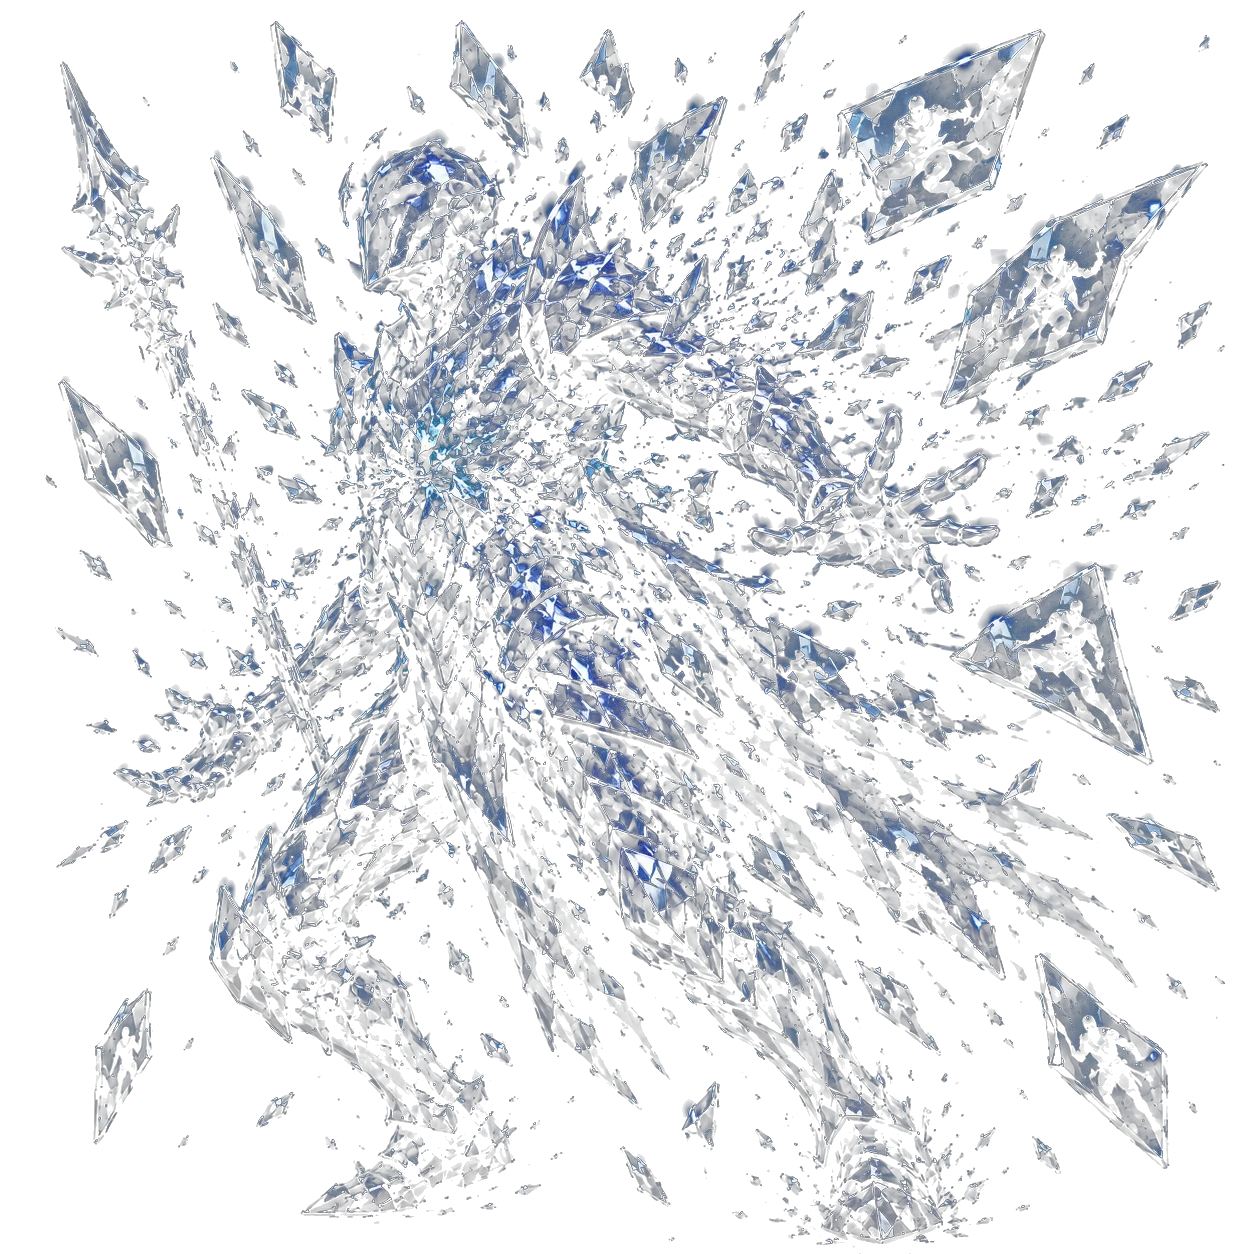
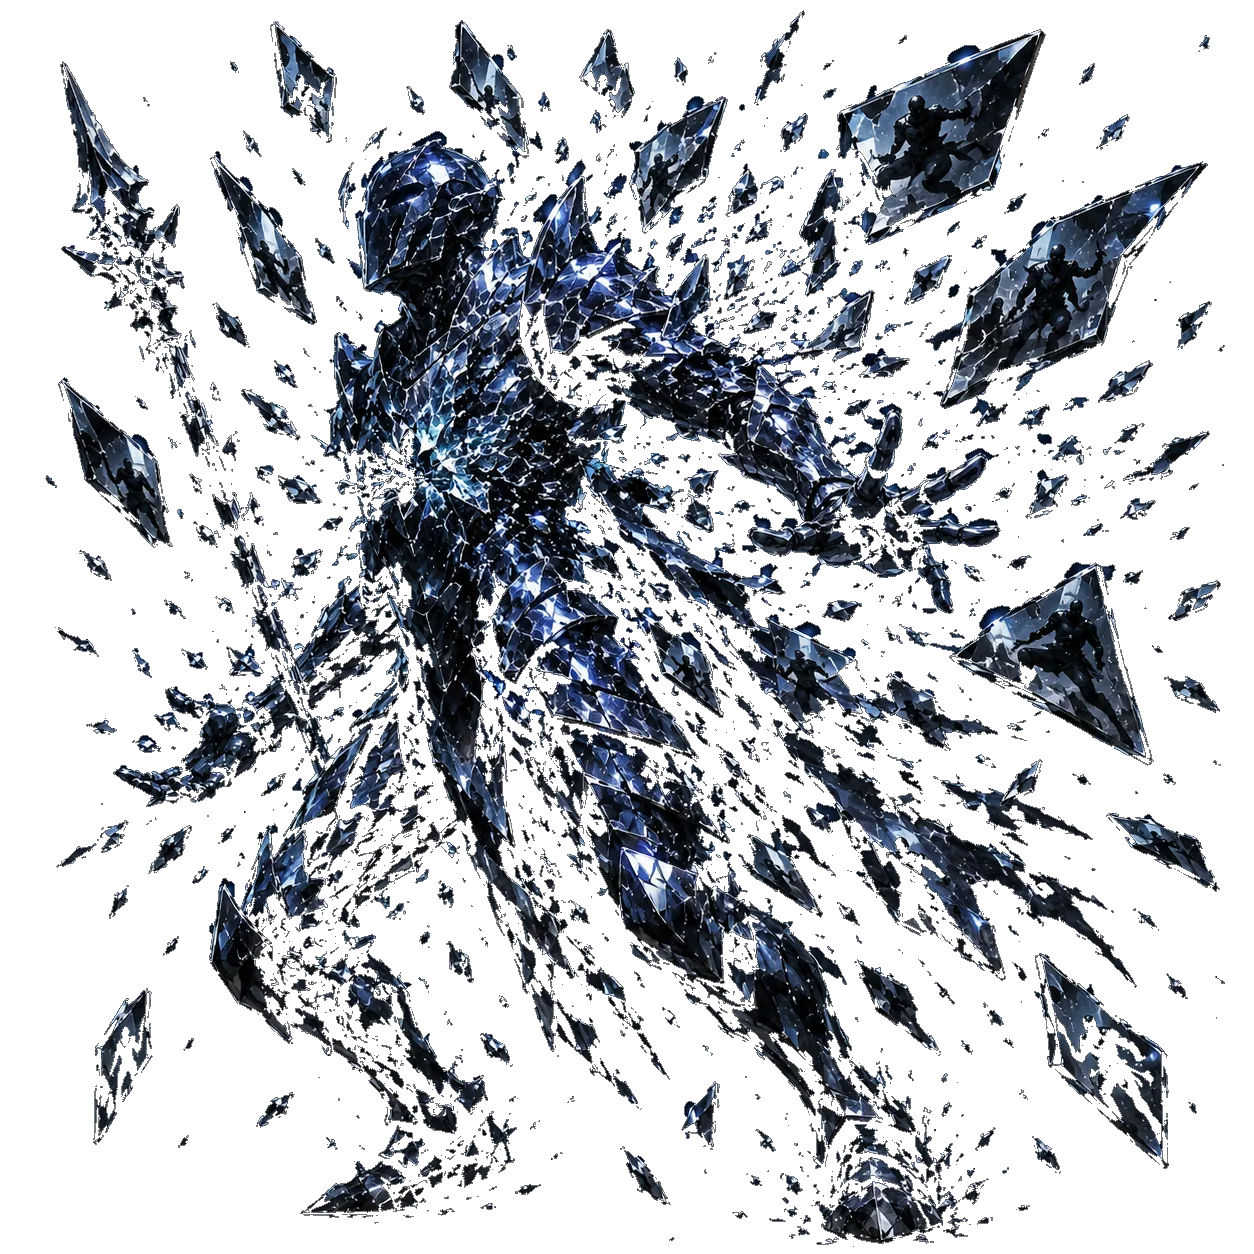
Playtest-fixes ronde 1: gif-balans, Erfprins-feedback, geaarde figuren, spiegelwachter
Na Thomas' playtest (gif-mage versloeg Erfprins triviaal, baas leek passief, figuren zweven):
- **D — gif-balans:** de Zielslantaarn brak ook de baas-halvering -> gif 100% ongeremd op de
  Erfprins. Nu breekt de lantaarn enkel de SITUATIONELE counters (immuun/kaats/absorbeer/
  verminder); de statische baas-halvering (ceil(gif/2)) blijft. Geverifieerd: baas-gif-tik
  10->5 mét lantaarn.
- **E — Erfprins-feedback:** de baas vált wel aan, maar als hij niks kan stelen/plagiëren viel
  hij stil terug op de 'pathetisch'-zet zonder uitleg -> leek passief. Nu zichtbare feedback
  ('niks om na te bootsen', mislukt-stelen) + een 1x-melding die de speler leert kopieerbare
  kaarten te spelen. (De diefstal/plagiaat zelf waren al zichtbaar.)
- **F — zwevende figuren:** subtielere adem (-5px->-2px) + tightere voet-schaduwen + mobiel-
  portret align-items center->flex-end. (Conservatief; combat-visueel niet auto-verifieerbaar.)
- **A — spiegelwachter:** de luma-key maakte 'm 2% opaak (~onzichtbaar); nu flood-recut ->
  21% opaak, leest als versplinterd spiegel-wraith. spiegelwachter_death idem.

Cache v26. G (verkeerde-act-scherm) bleek een vals spoor (S.act wordt correct opgehoogd
vóór de overgang) -> wacht op precieze repro. Resteert: B (koopman mobiel-crop), C
(vonkaltaar/de_deadline opsmuk). Getallen = vertrekwaarden.

diff --git a/js/game.js b/js/game.js
@@ -2984,12 +2984,17 @@ function copycatKies(v, beurt) {
     const plan = copycatPlagiaatPlan(v, aantal);
     return { type: 'plagiaat', naam: 'Plagiaat', plan, doe: vv => copycatSpeelTerug(vv, g, plan) };
   };
-  const steel = { type: 'steel', naam: 'Afkijken', doe: vv => { if (!copycatSteel(vv, g)) doeSchade(sp(), 4 + fase * 3, vv); } };
+  const steel = { type: 'steel', naam: 'Afkijken', doe: vv => { if (!copycatSteel(vv, g)) { melding('🎭 De Copycat grist naar je zet… maar grijpt mis, en haalt zelf uit.'); doeSchade(sp(), 4 + fase * 3, vv); } } };
   /* sterker tegen niet-voedende (bv. gif/chip) dekken: gif jaagt hem wél naar fase 3
      (copycatNaSchade !bron-tak voedt half), maar zonder kopieerbaar arsenaal viel hij
      terug op deze magere zet. Nu fase-geschaald 12/18/24 i.p.v. 9/12/15 — voelbaar in
      fase 3, waar een gestarveerde Erfprins anders tandeloos bleef. */
-  const pathetisch = { type: 'aanval', naam: fase >= 2 ? 'Geschreeuw' : 'Pappie Bellen', dmg: 6 + fase * 6 };
+  const pathetisch = { type: 'aanval', naam: fase >= 2 ? 'Geschreeuw' : 'Pappie Bellen', dmg: 6 + fase * 6,
+    /* maak ZICHTBAAR dat de kopieer-machine leegloopt — anders lijkt de baas passief/tandeloos */
+    doe: vv => {
+      fxNummer(actorEl(vv), '🎭 niks om na te bootsen!', 'fx-debuff');
+      if (!g._copycatLeeggemeld) { melding('🎭 De Copycat heeft niks van jou om na te bootsen — dus haalt hij zélf wild uit. Speel kopieerbare kaarten en hij wordt gevaarlijker.'); g._copycatLeeggemeld = true; }
+    } };
   if (g.copycatGebroken) return { type: 'aanval', naam: 'Wanhoopsklap', dmg: 6 + (fase >= 3 ? 2 : 0) };
   if (fase >= 3 && arsenaal > 0) {
     if (kanStelen && t % 3 === 2) return steel;
@@ -3161,8 +3166,10 @@ async function eindBeurt() {
         pose2D(v, 'gif', 0.9);          /* reactie-pose: de leegte slurpt je gif op en zwelt */
         zwarteZielHint(v);              /* per-wezen hint, 1× per gevecht */
       } else {
-        /* verminder (Zwarte Ziel, gewone) OF baas/gifWeerstand → halve gif-tik. */
-        const halveer = !lantaarn && (zz === 'verminder' || gd.baas || gd.gifWeerstand);
+        /* verminder (Zwarte Ziel, gewone) OF baas/gifWeerstand → halve gif-tik. De Zielslantaarn
+           breekt de SITUATIONELE counters (immuun/kaats/absorbeer/verminder, via zz=null hierboven)
+           maar NIET de statische baas-halvering: een baas blijft innerlijk sterk tegen gif. */
+        const halveer = (zz === 'verminder') || gd.baas || gd.gifWeerstand;
         if (halveer && zz === 'verminder') {
           fxNummer(actorEl(v), '🕳 ½ gif', 'fx-blok');
           pose2D(v, 'gif', 0.9);        /* reactie-pose: het wezen dempt de helft van je gif */

diff --git a/css/style.css b/css/style.css
@@ -988,7 +988,8 @@ button:disabled { cursor: not-allowed; opacity: .4; }
   font-size: 5.5rem;
   width: 124px; height: 124px;
   display: flex; align-items: flex-end; justify-content: center;
-  filter: drop-shadow(0 8px 16px rgba(0, 0, 0, .7));
+  /* tightere, donkere voet-schaduw → de figuur 'staat' op de grond i.p.v. te zweven */
+  filter: drop-shadow(0 9px 5px rgba(0, 0, 0, .6)) drop-shadow(0 2px 3px rgba(0, 0, 0, .55));
   animation: adem 3s ease-in-out infinite;
 }
 .speler-figuur.valt-aan { animation: uitval-speler .4s ease; }
@@ -1006,7 +1007,7 @@ button:disabled { cursor: not-allowed; opacity: .4; }
 }
 @keyframes adem {
   0%, 100% { transform: translateY(0) scale(1); }
-  50% { transform: translateY(-5px) scale(1.015); }
+  50% { transform: translateY(-2px) scale(1.012); }   /* subtieler → minder 'zwevend' */
 }
 .speler-naam { font-size: 1.15rem; color: var(--ember-fel); }
 
@@ -1145,7 +1146,8 @@ button:disabled { cursor: not-allowed; opacity: .4; }
   width: 108px; height: 108px;
   display: flex; align-items: flex-end; justify-content: center;
   position: relative;
-  filter: drop-shadow(0 8px 14px rgba(0, 0, 0, .7));
+  /* tightere voet-schaduw → 'op de grond' i.p.v. zwevend */
+  filter: drop-shadow(0 8px 5px rgba(0, 0, 0, .6)) drop-shadow(0 2px 3px rgba(0, 0, 0, .55));
   animation: adem 2.6s ease-in-out infinite;
 }
 .vijand-art svg, .speler-figuur svg { width: 100%; height: 100%; }

diff --git a/css/mobiel.css b/css/mobiel.css
@@ -270,7 +270,7 @@ body[data-modus="mobiel"] .inst-mobiel { display: flex; }
 @media (orientation: portrait) and (max-width: 900px) {
   /* min-height:0 laat het strijdveld krimpen zodat de in-flow onderbalk + hand
      onderaan blijven (geen afkapping); de figuren vullen de ruimte erboven */
-  body[data-modus="mobiel"] #strijdveld { padding: 0 8px 6px; align-items: center; justify-content: space-evenly; gap: 8px; min-height: 0; }
+  body[data-modus="mobiel"] #strijdveld { padding: 0 8px 6px; align-items: flex-end; justify-content: space-evenly; gap: 8px; min-height: 0; }
   body[data-modus="mobiel"] #speler-zone { min-width: 0; }
   body[data-modus="mobiel"] .speler-figuur { width: 140px; height: 140px; }
   body[data-modus="mobiel"] #vijanden-rij { gap: 12px 16px; flex-wrap: wrap; justify-content: center; max-width: min(60vw, 340px); }

diff --git a/sw.js b/sw.js
@@ -2,7 +2,7 @@
    Code (html/js/css): network-first — online krijg je altijd de nieuwste versie.
    Art (assets/): cache-first — afbeeldingen veranderen niet, dus herbezoeken
    laden vrijwel instant. Offline werkt alles vanuit de cache. */
-const CACHE = 'slayit-v25'; /* v25: Vlamwacht + Mosgeest art (basis+attack+hit+death) — ALLE artwork compleet */
+const CACHE = 'slayit-v26'; /* v26: playtest-fixes — gif-balans (lantaarn breekt baas niet) + Erfprins-feedback + figuren geaard + spiegelwachter-recut */
 const BESTANDEN = [
   '.',
   'index.html',
